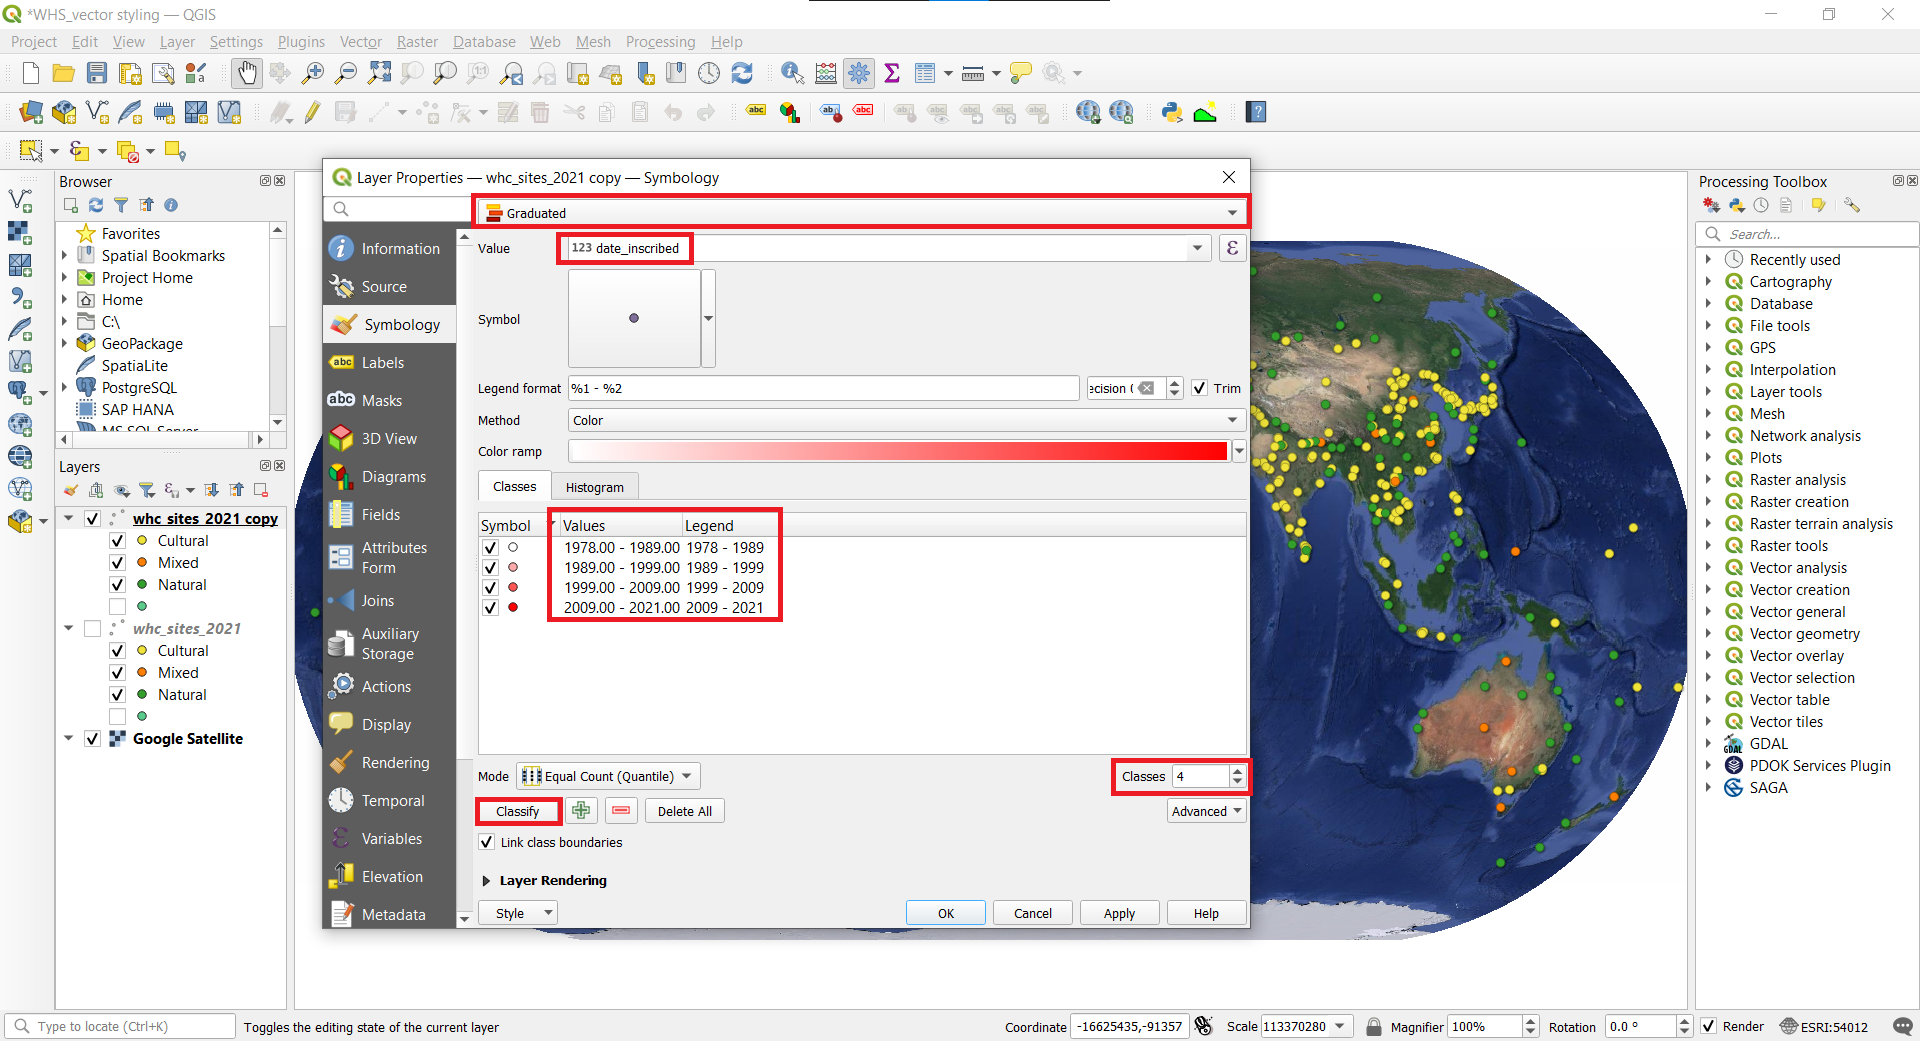
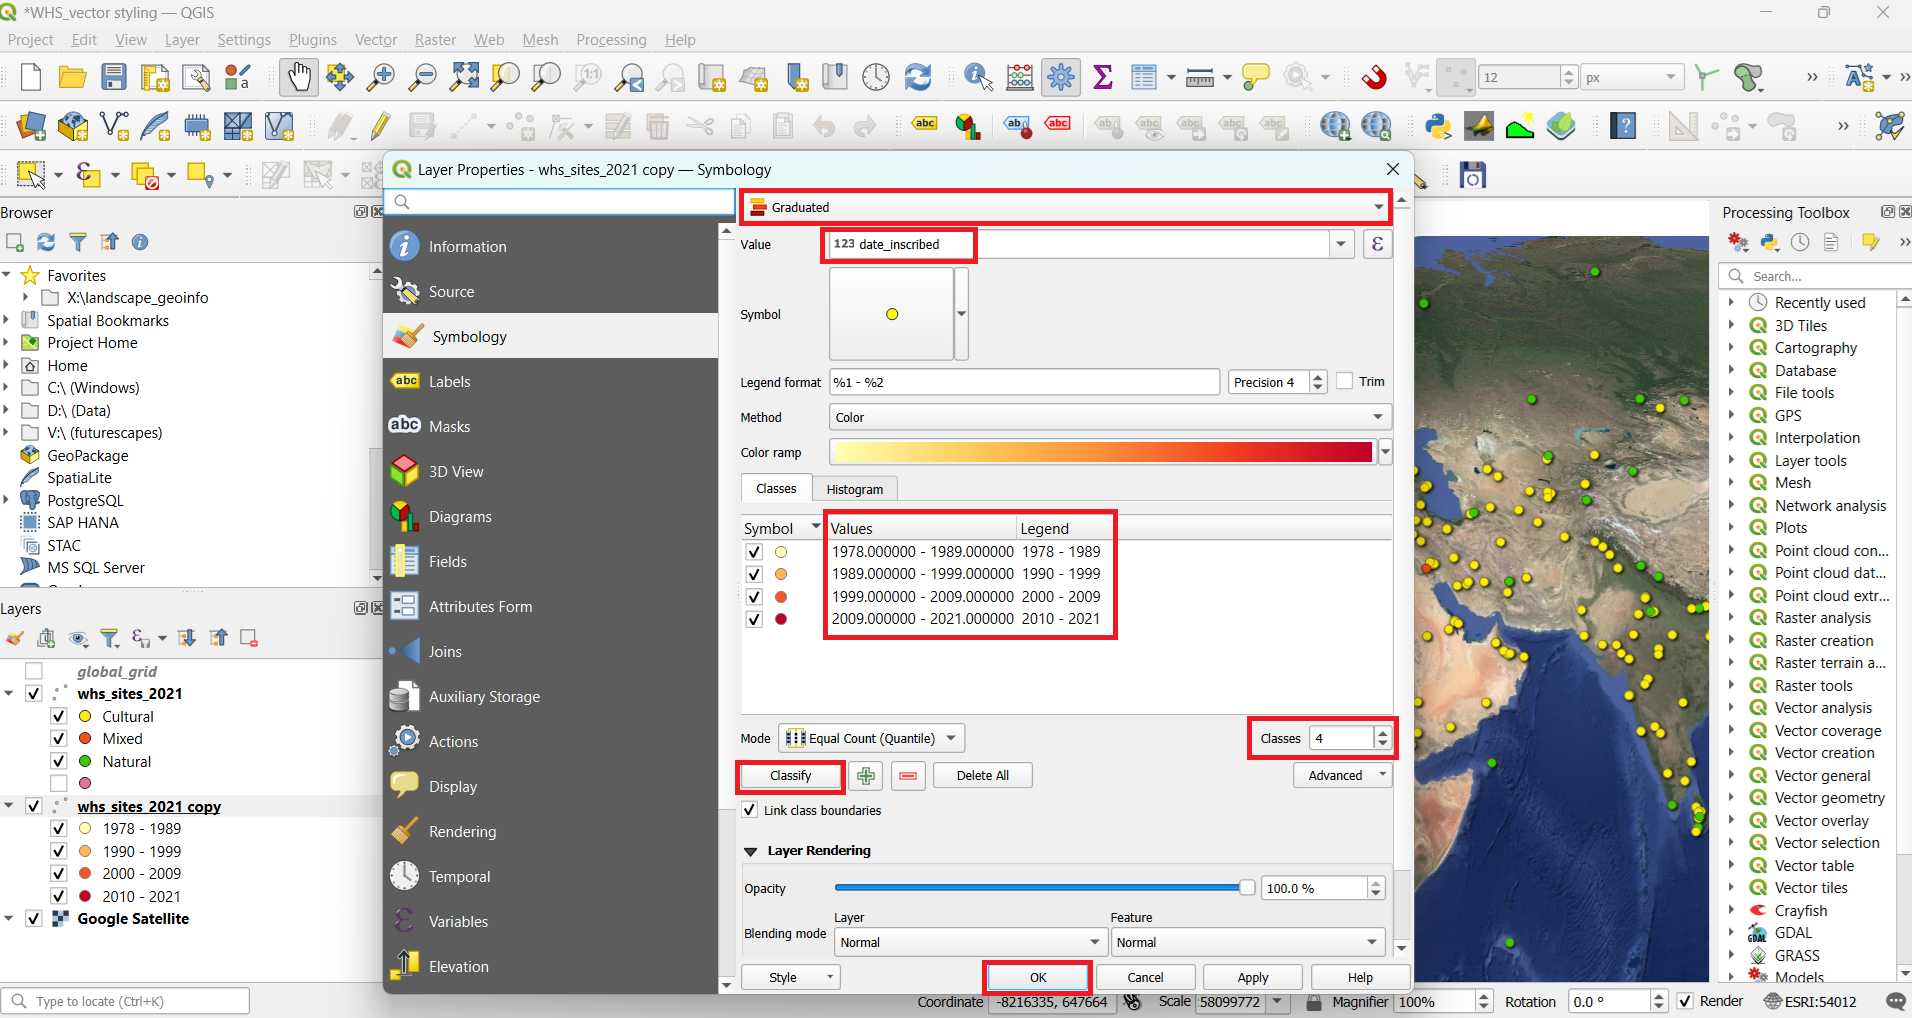
update vector styiling tutorial - classes overlapping

diff --git a/_posts/qgis/2024-07-08-vector-styling.md b/_posts/qgis/2024-07-08-vector-styling.md
@@ -68,7 +68,7 @@ Categorized symbology is for nominal data. Nominal data are purely descriptive a
 While categorized symbology is for nominal data (qualitative) then graduated symbolgy is for ordinal and interval (quantitative) data. WHC dataset includes a date of inscription that we can consider as ordinal. Let's map the WHC sites based on their year of inscription.
 12. First, create a duplicate of your already stylized <span style="font-family:Consolas; color:#AF1B03">whc_sites_2021</span> layer because we want to keep the previous symbology on the categories. Make a right-click on the <span style="font-family:Consolas; color:#AF1B03">whc_sites_2021</span> layer name `Duplicate Layer`.
 ![image](../../images/5_duplicate layer.png)
-13. Make the duplicate layer visible and move it on top of the original. Open layer's Symbology. Change the symbology to Graduated, and Value to <span style="font-family:Consolas">date_inscribed</span>. Make number of Classes to 4 and click Classify. Currently the classification Mode is Equal Count (Quantile) which tries to divide values into classes so that each class would have even number of observations. We would adjust them a little. The classes should also not overlap. The legend values in QGIS do not enable to eliminate overlap but if we know that the higher value of each class is in the current class and lower value is in previous class then we can create correct Legend values. Adjust the class values and legend as shown below and click OK.
+13. Make the duplicate layer visible and move it on top of the original. Open layer's Symbology. Change the symbology to Graduated, and Value to <span style="font-family:Consolas">date_inscribed</span>. Make number of Classes to 4 and click Classify. Currently the classification Mode is Equal Count (Quantile) which tries to divide values into classes so that each class would have even number of observations. We need to make some adjustments to the classes to ensure they don't overlap. In QGIS, the legend values don't automatically prevent overlaps. To fix this, we should set the highest value of each class to belong to that class, while the lowest value of each class should match the highest value of the previous class, plus one unit. Adjust the class values and legend as shown below, and then click OK.
 ![image](../../images/5_graduated classes.png)
 14. The map symbols should now have different color based on the year of inscription. Let's change the color palette of the gradual scale. Open layer's Symbology and click on the small arrow next to Color ramp. This will open a selection of color ramps. You can expand it even more by clicking All color ramps. You may choose a ramp of you choice. However, keep in mind that for gradually increasing values like years, sequential color palette is the best. Avoid using diverging color palette in this case because there is no clear mid-point. You can read more about [<span style="color:#0564A0">"When to use sequential and diverging palettes"</span>](https://blog.datawrapper.de/diverging-vs-sequential-color-scales/).
 ![image](../../images/5_color ramp.png)
